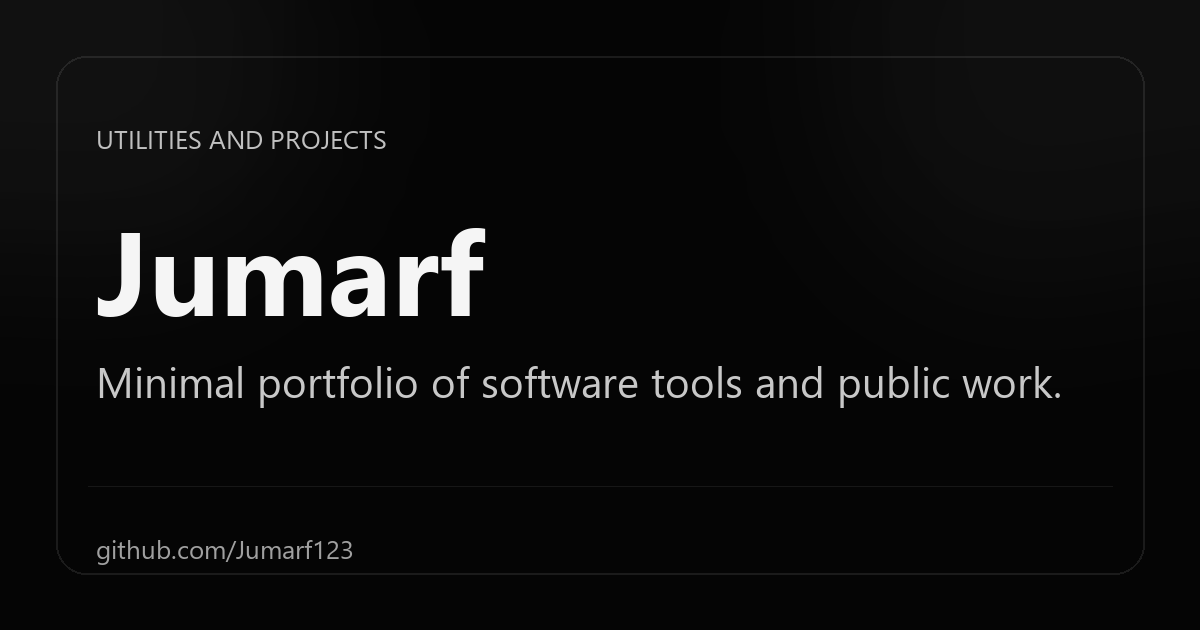
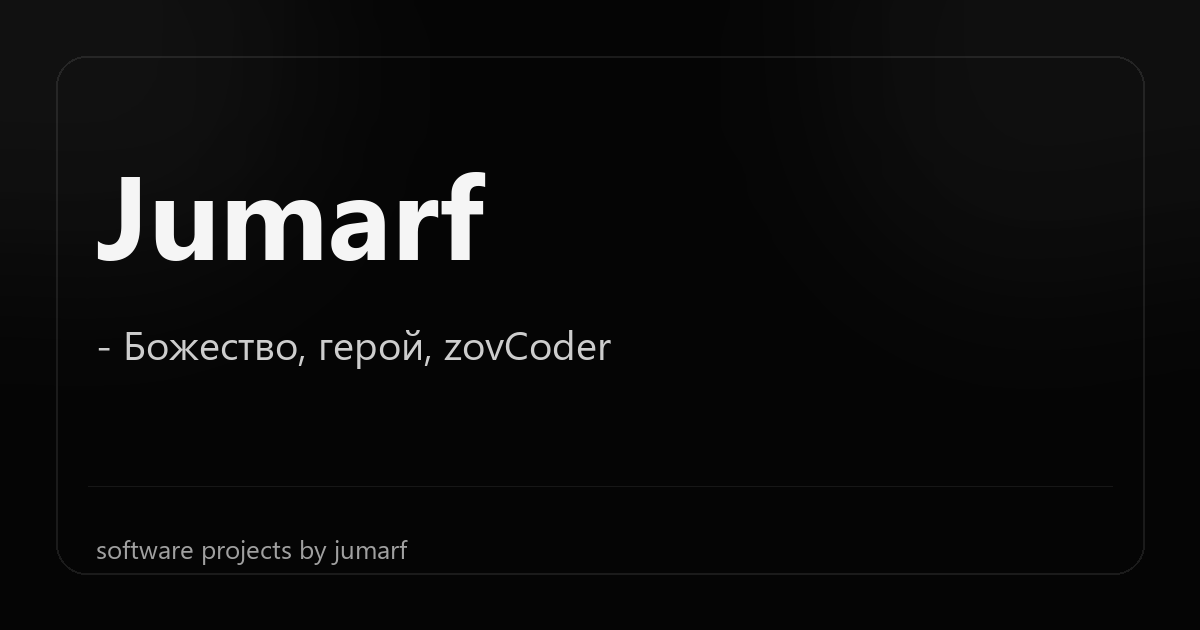
Update meta and social preview

Changed region(s): [[0.0617, 0.2714, 0.8942, 0.6333], [0.0617, 0.8444, 0.3392, 0.9048], [0.0617, 0.2111, 0.3392, 0.2413]]

diff --git a/index.html b/index.html
@@ -3,18 +3,18 @@
 <head>
   <meta charset="utf-8">
   <meta name="viewport" content="width=device-width, initial-scale=1">
-  <title>Jumarf - Utilities and Projects</title>
-  <meta id="meta-description" name="description" content="Minimal portfolio of utilities, analysis tools, and software projects by Jumarf.">
+  <title>Jumarf</title>
+  <meta id="meta-description" name="description" content="software projects by jumarf">
   <meta name="theme-color" content="#050505">
   <meta name="color-scheme" content="dark">
   <meta property="og:type" content="website">
-  <meta id="meta-og-title" property="og:title" content="Jumarf - Utilities and Projects">
-  <meta id="meta-og-description" property="og:description" content="Minimal portfolio of utilities, analysis tools, and software projects by Jumarf.">
+  <meta id="meta-og-title" property="og:title" content="Jumarf">
+  <meta id="meta-og-description" property="og:description" content="software projects by jumarf">
   <meta property="og:image" content="assets/images/social-card.png">
   <meta id="meta-og-image-alt" property="og:image:alt" content="Dark portfolio preview for Jumarf.">
   <meta name="twitter:card" content="summary_large_image">
-  <meta id="meta-twitter-title" name="twitter:title" content="Jumarf - Utilities and Projects">
-  <meta id="meta-twitter-description" name="twitter:description" content="Minimal portfolio of utilities, analysis tools, and software projects by Jumarf.">
+  <meta id="meta-twitter-title" name="twitter:title" content="Jumarf">
+  <meta id="meta-twitter-description" name="twitter:description" content="software projects by jumarf">
   <meta name="twitter:image" content="assets/images/social-card.png">
   <meta id="meta-twitter-image-alt" name="twitter:image:alt" content="Dark portfolio preview for Jumarf.">
   <link rel="icon" type="image/svg+xml" href="assets/icons/favicon.svg">
@@ -42,7 +42,7 @@
         <div class="container hero-inner">
           <div class="hero-copy">
             <h1 class="hero-title" id="hero-title">Jumarf</h1>
-            <p class="hero-subtitle" id="hero-subtitle">Deity, zovCoder, anime hero.</p>
+            <p class="hero-subtitle" id="hero-subtitle">- Deity, hero, zovCoder</p>
 
             <div class="hero-actions">
               <a class="button button-primary" id="hero-projects" href="#projects">Projects</a>

diff --git a/assets/js/app.js b/assets/js/app.js
@@ -1,15 +1,15 @@
 (function (global) {
   const LOCALES = {
     en: {
-      metaTitle: "Jumarf - Utilities and Projects",
-      metaDescription: "Minimal portfolio of utilities, analysis tools, and software projects by Jumarf.",
+      metaTitle: "Jumarf",
+      metaDescription: "software projects by jumarf",
       metaImageAlt: "Dark portfolio preview for Jumarf.",
       skipLink: "Skip to content",
       navAriaLabel: "Primary navigation",
       navAbout: "About",
       navProjects: "Projects",
       navContacts: "Contacts",
-      heroSubtitle: "Deity, zovCoder, anime hero.",
+      heroSubtitle: "- Deity, hero, zovCoder",
       heroProjects: "Projects",
       heroGitHubAriaLabel: "Jumarf on GitHub",
       aboutTitle: "About",
@@ -21,15 +21,15 @@
       projectLinkSuffix: "on GitHub"
     },
     ru: {
-      metaTitle: "Jumarf - Утилиты и проекты",
-      metaDescription: "Минималистичное портфолио утилит, инструментов анализа и программных проектов Jumarf.",
+      metaTitle: "Jumarf",
+      metaDescription: "программные проекты от jumarf",
       metaImageAlt: "Тёмный превью-слайд портфолио Jumarf.",
       skipLink: "Перейти к содержимому",
       navAriaLabel: "Основная навигация",
       navAbout: "Обо мне",
       navProjects: "Проекты",
       navContacts: "Контакты",
-      heroSubtitle: "Божество, zovCoder, аниме герой.",
+      heroSubtitle: "- Божество, герой, zovCoder",
       heroProjects: "Проекты",
       heroGitHubAriaLabel: "Jumarf на GitHub",
       aboutTitle: "Обо мне",
